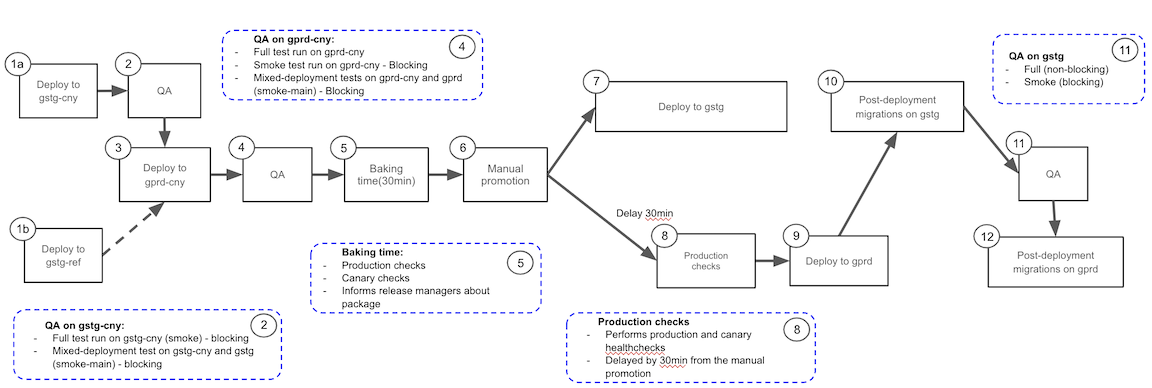
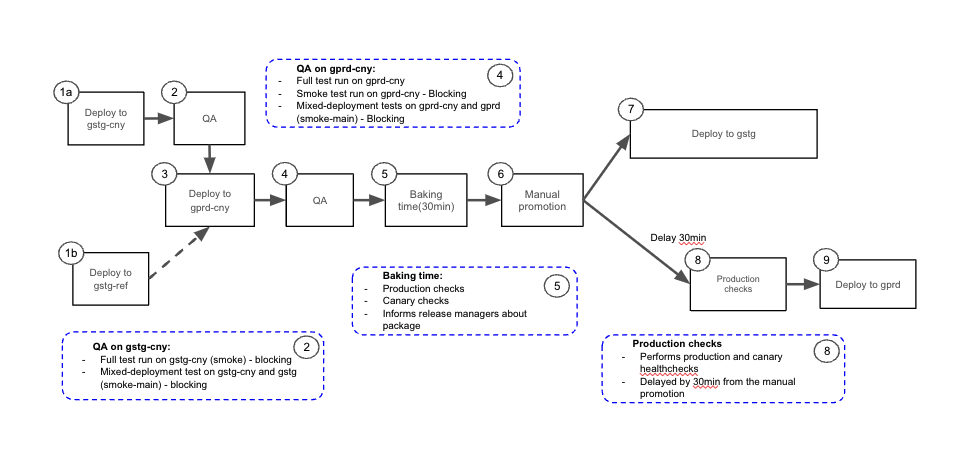
Update GitLab.com deployment pipeline

diff --git a/releases/index.html.md b/releases/index.html.md
@@ -75,9 +75,6 @@ managers. Ongoing incidents or Change Requests with the `blocks deployments` lab
 Each deployment will trigger a notification in the Slack channel [#announcements](https://gitlab.slack.com/archives/C8PKBH3M5).
 As part of the deployments, a QA issue is created in [release/tasks] issue tracker to inform the people who are
 involved in the process that their change is going through environments
-9. Following a successful deployment to production, post-deploy migration scripts run on staging
-10. QA tests execute against staging
-11. Post-deploy migration scripts run on production
 
 ## Self-managed releases
 
